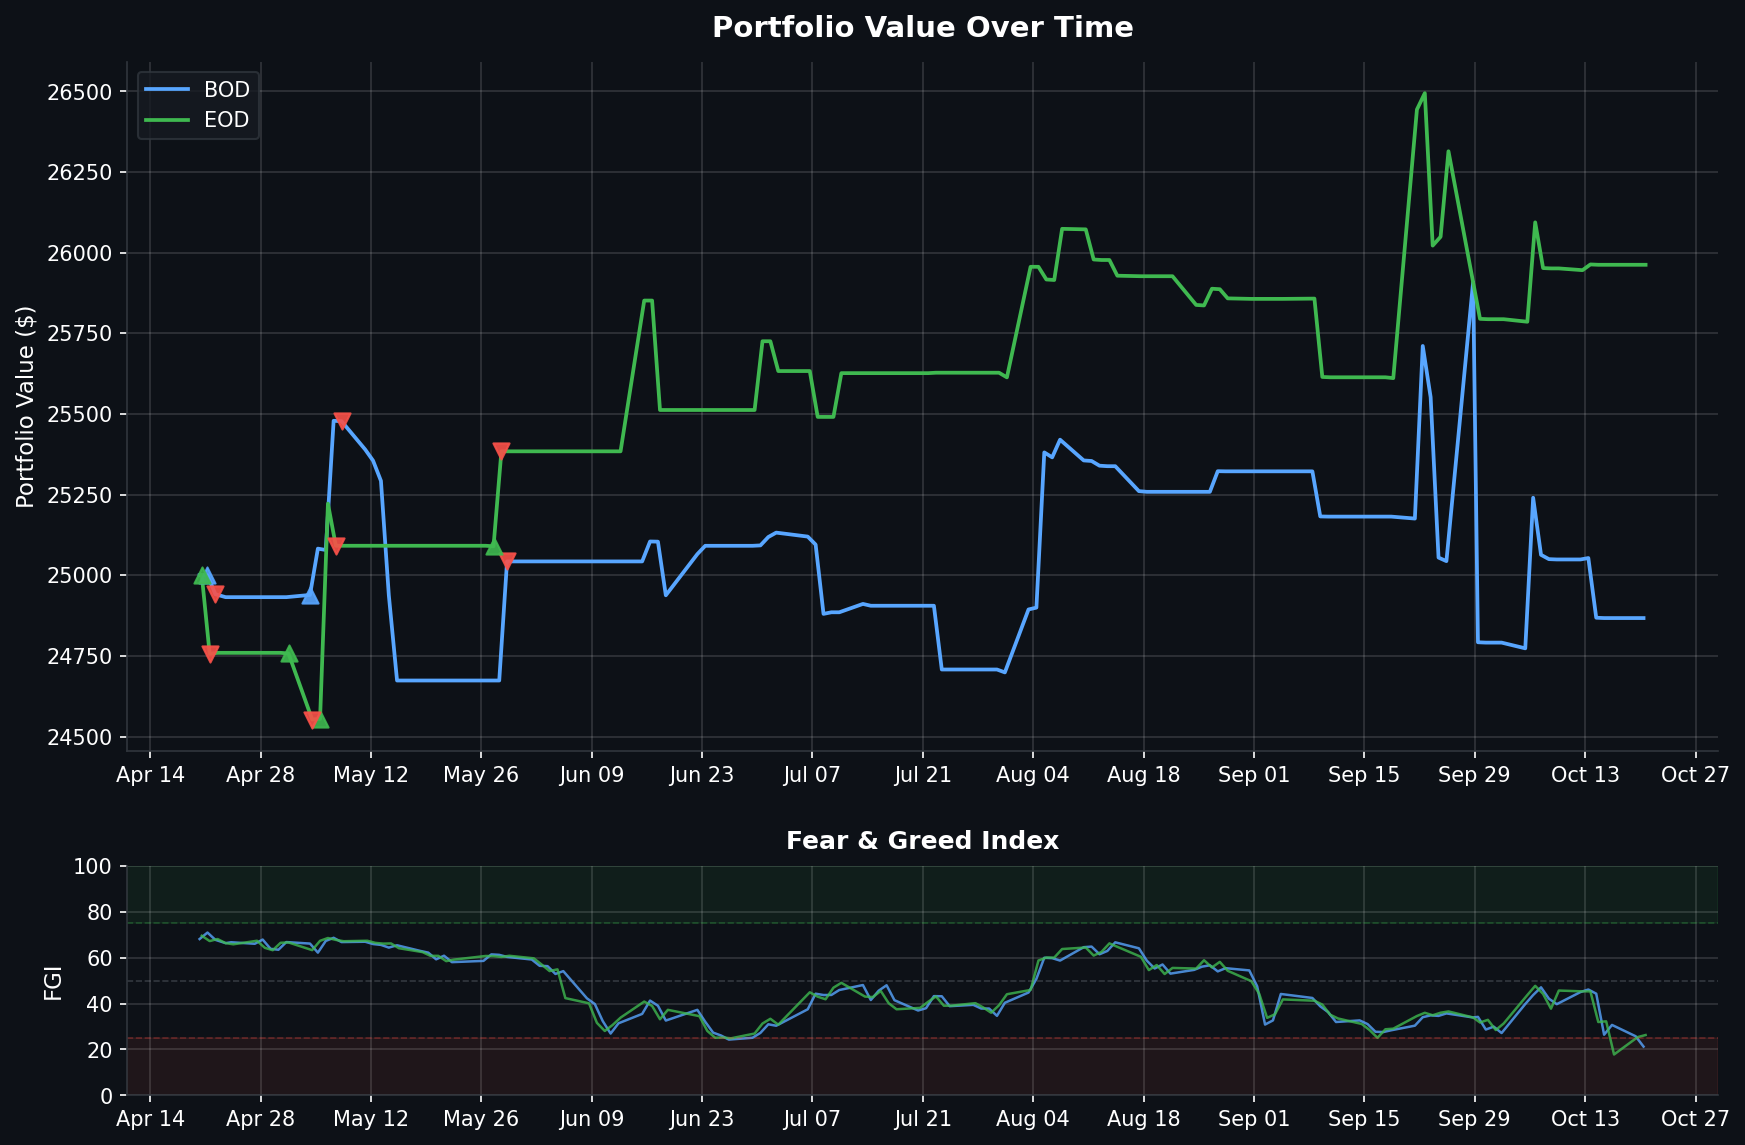
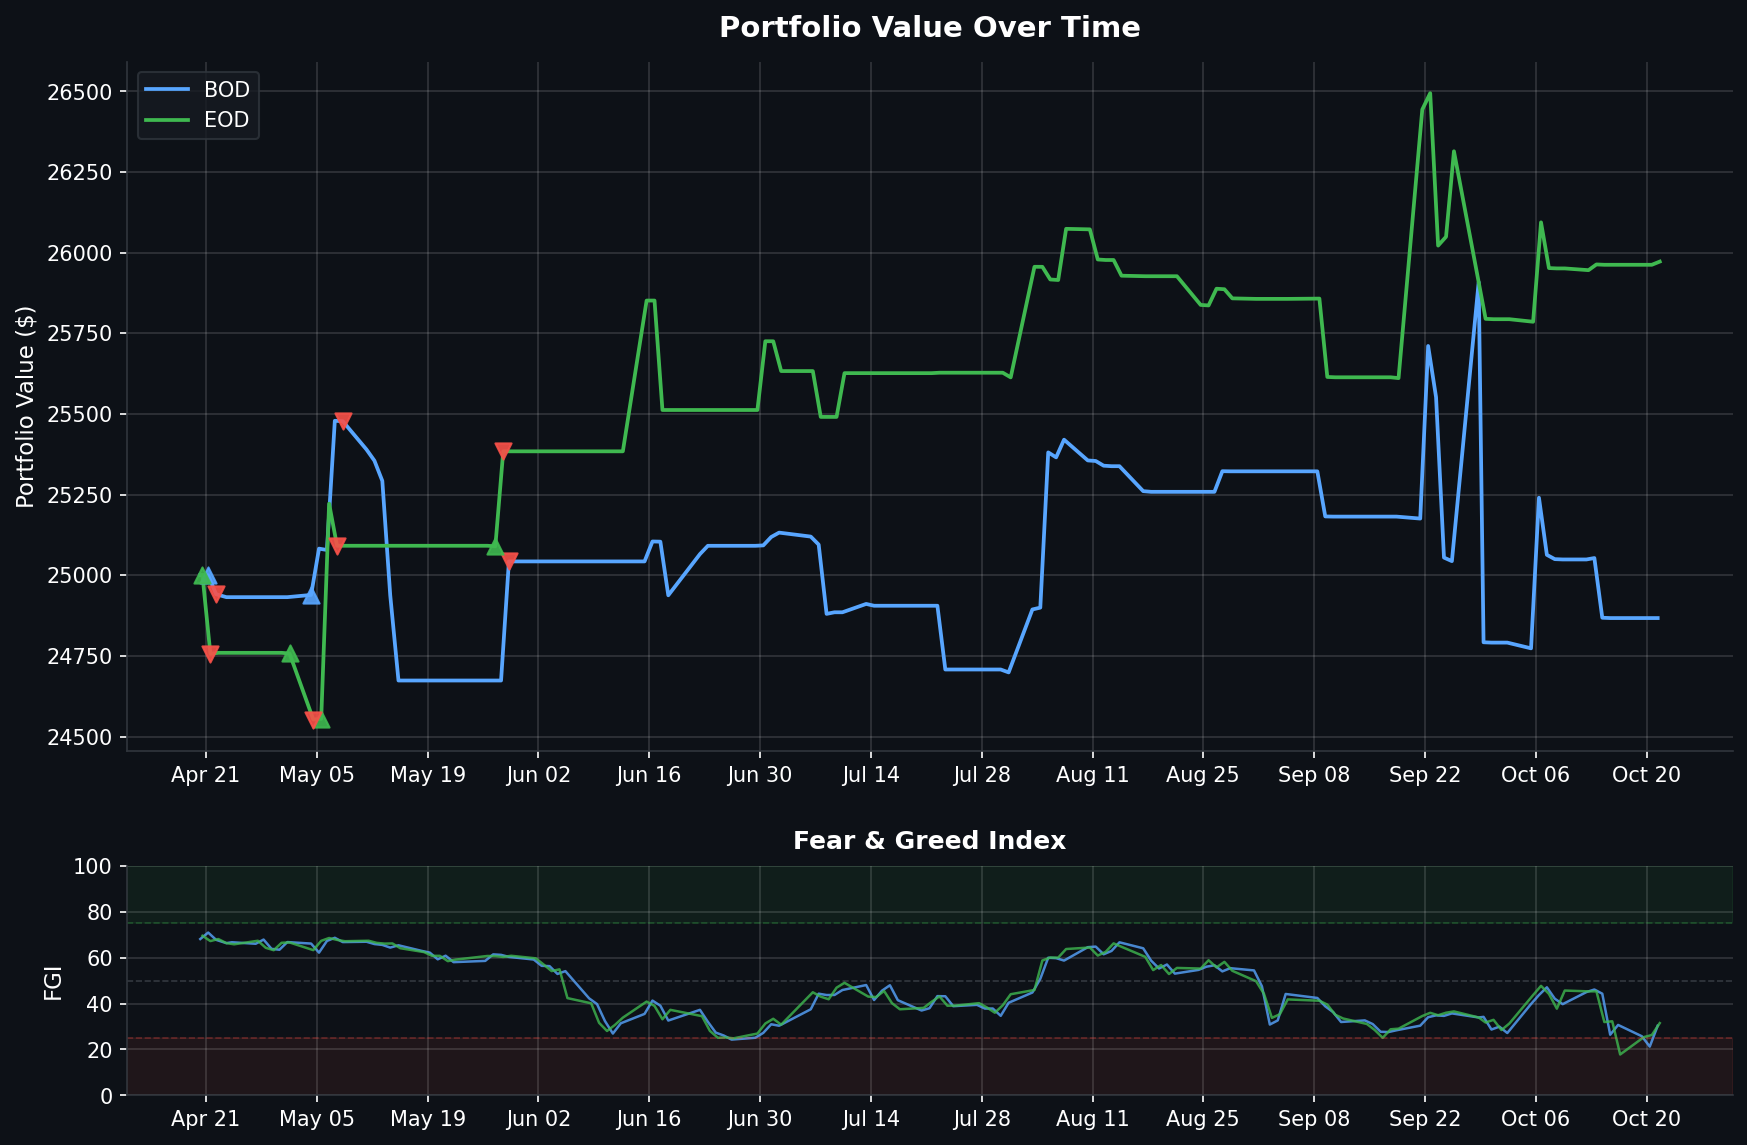
Daily data backup 2026-10-21

diff --git a/README.md b/README.md
@@ -1,6 +1,6 @@
 # Fear & Greed Index Trading Bot
 
-> Dashboard auto-updated daily at market close | Last update: **2026-10-20 13:30 PST**
+> Dashboard auto-updated daily at market close | Last update: **2026-10-21 13:30 PST**
 
 ![Portfolio Performance](assets/portfolio_chart.png)
 
@@ -12,12 +12,12 @@
 |--------|-------|
 | Portfolio Value | **$24,867.22** |
 | Buying Power | $99,468.88 |
-| Current FGI | 21.26 |
+| Current FGI | 30.34 |
 | Position | FLAT |
 | Total P&L | **$+995** |
 | Win Rate | 50% (1W / 1L) |
 | Total Round Trips | 2 |
-| Last Signal | NO_ACTION @ 2026-10-20 09:35 |
+| Last Signal | NO_ACTION @ 2026-10-21 09:35 |
 
 <details>
 <summary>Trade History (2 trades)</summary>
@@ -34,11 +34,11 @@
 
 | Time | Action | Price | FGI | Momentum | Velocity | Volatility | Reason |
 |------|--------|-------|-----|----------|----------|------------|--------|
+| 10-21 09:35 | NO_ACTION | $770.34 | 30.34 | 4.55 | -0.12 | 0.0864 | Insufficient momentum/velocity for entry |
 | 10-20 09:35 | NO_ACTION | $765.42 | 21.26 | -4.64 | -1.72 | 0.0891 | Insufficient momentum/velocity for entry |
 | 10-19 09:35 | NO_ACTION | $767.38 | 25.76 | -1.87 | -6.18 | 0.0898 | Insufficient momentum/velocity for entry |
 | 10-16 09:35 | NO_ACTION | $772.30 | 30.69 | -3.11 | -5.14 | 0.0963 | Insufficient momentum/velocity for entry |
 | 10-15 09:35 | NO_ACTION | $765.60 | 26.43 | -12.51 | -6.19 | 0.0978 | Insufficient momentum/velocity for entry |
-| 10-14 09:35 | NO_ACTION | $775.04 | 44.29 | -0.84 | 1.52 | 0.0957 | SELL incomplete - still holding 62 after 5 attempts |
 
 </details>
 
@@ -48,14 +48,14 @@
 
 | Metric | Value |
 |--------|-------|
-| Portfolio Value | **$25,962.41** |
-| Buying Power | $103,849.64 |
-| Current FGI | 26.29 |
+| Portfolio Value | **$25,972.31** |
+| Buying Power | $42,613.78 |
+| Current FGI | 31.49 |
 | Position | FLAT |
 | Total P&L | **$+302** |
 | Win Rate | 50% (2W / 2L) |
 | Total Round Trips | 4 |
-| Last Signal | NO_ACTION @ 2026-10-20 15:50 |
+| Last Signal | NO_ACTION @ 2026-10-21 15:51 |
 
 <details>
 <summary>Trade History (4 trades)</summary>
@@ -74,11 +74,11 @@
 
 | Time | Action | Price | FGI | Momentum | Velocity | Volatility | Reason |
 |------|--------|-------|-----|----------|----------|------------|--------|
+| 10-21 15:51 | NO_ACTION | $773.23 | 31.49 | 3.76 | 4.56 | 0.0887 | BUY did not fill after 3 attempts |
 | 10-20 15:50 | NO_ACTION | $768.18 | 26.29 | 3.12 | -1.99 | 0.0897 | Insufficient momentum/velocity for entry |
 | 10-19 15:50 | NO_ACTION | $767.30 | 25.4 | 0.24 | -2.19 | 0.0905 | Insufficient momentum/velocity for entry |
 | 10-16 15:50 | NO_ACTION | $762.83 | 17.82 | -9.53 | -9.16 | 0.106 | Insufficient momentum/velocity for entry |
 | 10-15 15:50 | NO_ACTION | $771.67 | 32.26 | -4.25 | -4.35 | 0.0968 | Insufficient momentum/velocity for entry |
-| 10-14 15:50 | NO_ACTION | $768.97 | 31.96 | -8.90 | -4.57 | 0.1052 | Insufficient momentum/velocity for entry |
 
 </details>
 
